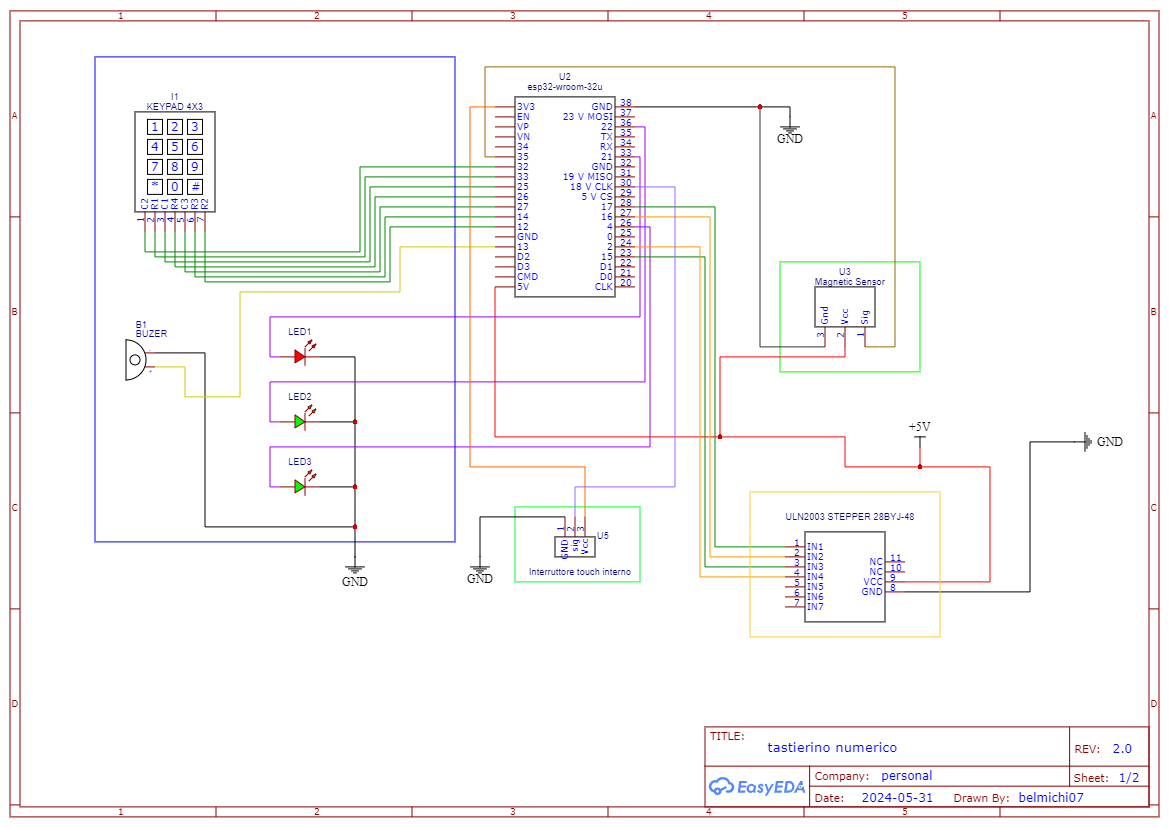
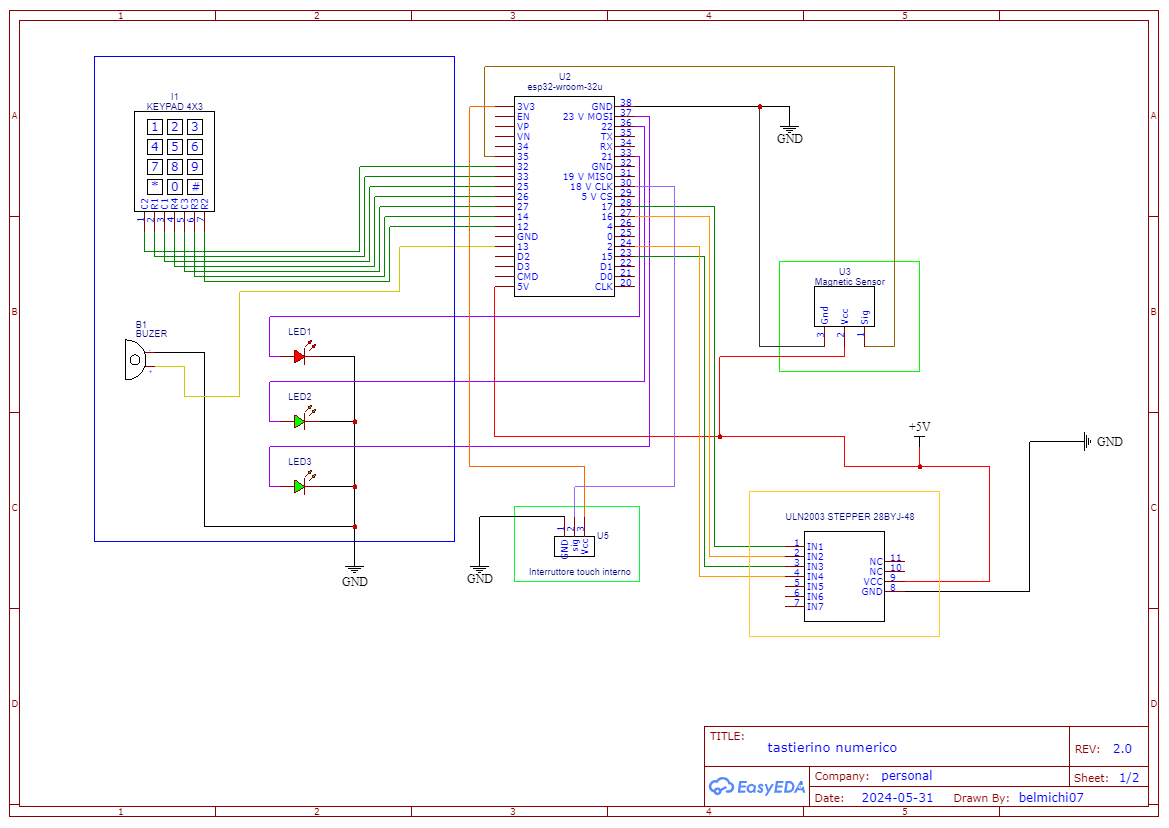
cambiato pin LED giallo e modificato funzionamento, aggiutno limite di tempo per il pin

diff --git a/tastierinoNumerico/src/main.cpp b/tastierinoNumerico/src/main.cpp
@@ -14,7 +14,7 @@ byte sensoreMagnetico = 35;
 byte pinInterruttoreInterno = 18;
 
 LED ledRosso(21);
-LED ledGiallo(4);
+LED ledGiallo(23);
 LED ledVerde(22);
 byte numeroLED = 3;
 LED pinLED[] = {ledRosso, ledGiallo, ledVerde};
@@ -66,6 +66,10 @@ Keypad customKeypad = Keypad(makeKeymap(hexaKeys), rowPins, colPins, ROWS, COLS)
 //variabili temporali
 long tempoMaggioreOrario;
 long tempoPassatoOrario=0;
+long tempoMaggioreLampeggio;
+long tempoPassatoLampeggio=0;
+//variabile che indica il tempo che è passato dall'ingresso nel ciclo della digitazione del pin
+long tempoPassatoIngressoDigitazione=0;
 
 //indica l'ora
 byte ora;
@@ -241,16 +245,10 @@ String digitazioneCodice(int numeroCaratteri, int nLED){
   String code = "";
   bool inserimento = true;
   Serial.println("inserisci il codice:");
-  long tempoPassatoLampeggio = 0;
-  while (code.length() < numeroCaratteri && inserimento){
-    //controlliamo se qualcuno dall'interno cerca di aprire la porta
-    if(digitalRead(pinInterruttoreInterno)){
-      //invertiamo lo stato della chiusura a chiave della porta
-      setPorta(!statoPortaChiusura);
-      delay(200);
-    }
+  tempoPassatoIngressoDigitazione=millis();
+  while (code.length() < numeroCaratteri && inserimento ){
     // lampeggiamento led giallo
-    long tempoMaggioreLampeggio = millis();
+    tempoMaggioreLampeggio = millis();
     if (tempoMaggioreLampeggio - tempoPassatoLampeggio > 200){
       lampaeggiaLed(nLED); 
       tempoPassatoLampeggio=millis();
@@ -263,7 +261,7 @@ String digitazioneCodice(int numeroCaratteri, int nLED){
         bip(150);
       }
       Serial.print("*");
-    }else if (charInserito == '*'){
+    }else if (charInserito == '*' || millis()-tempoPassatoIngressoDigitazione>=8000){
       // interrompiamo la costruzione del codice
       inserimento = false;
     }
